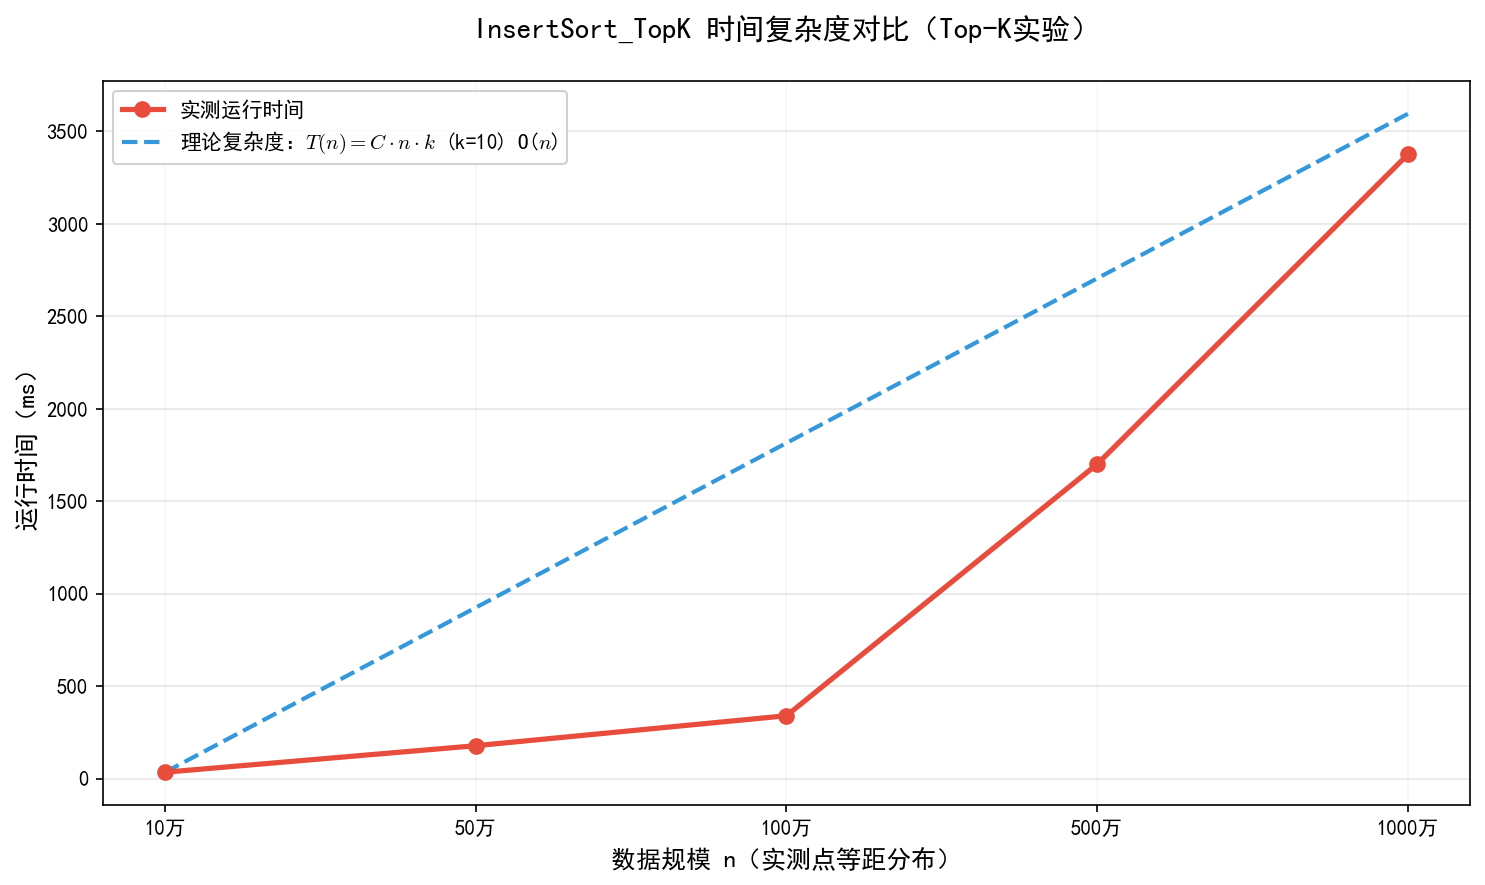
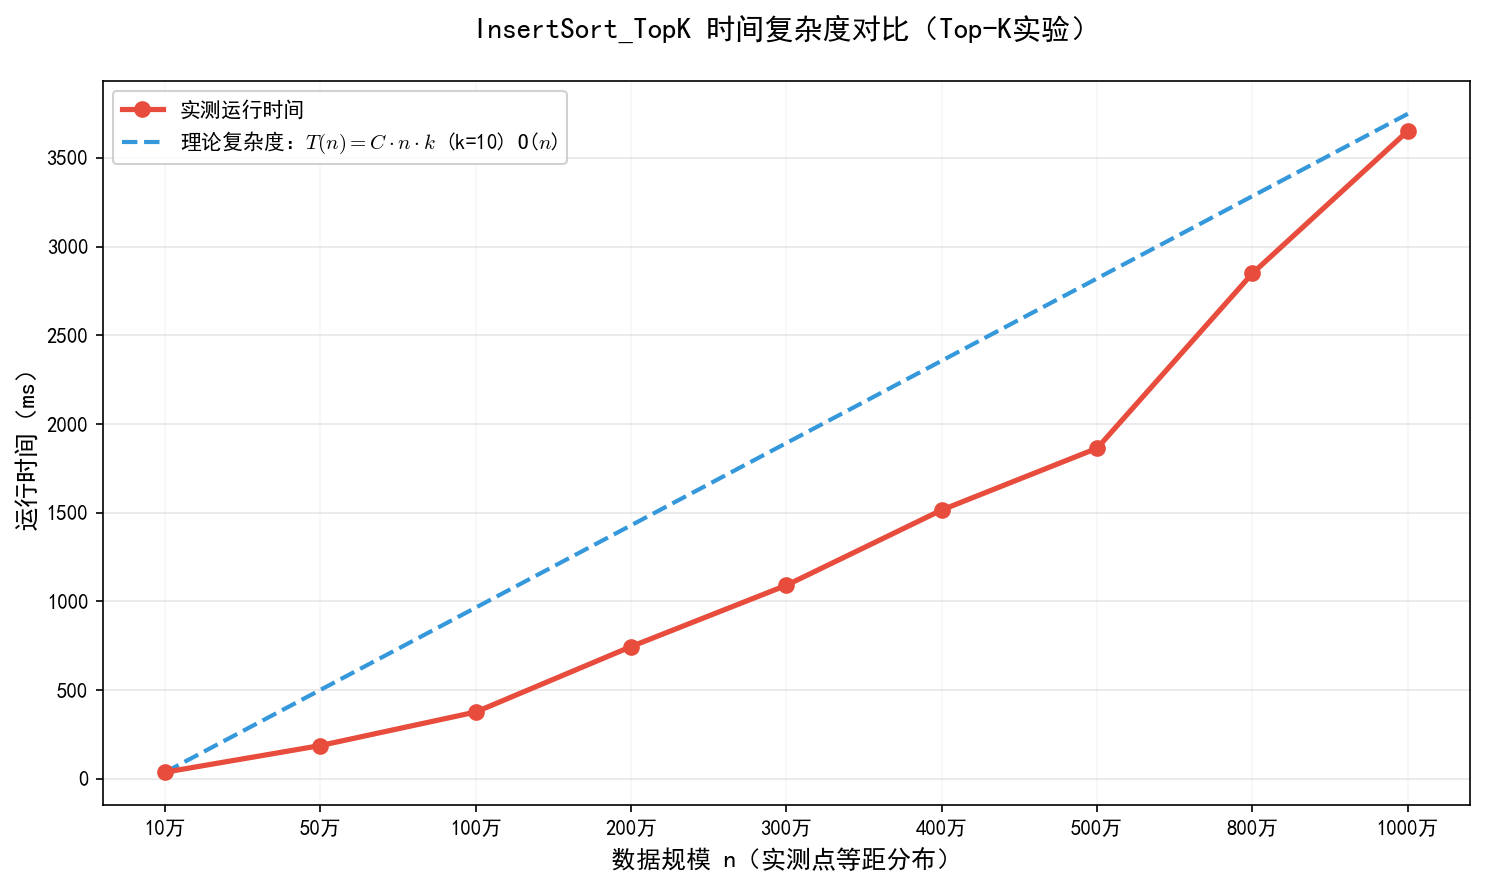
2026-0325 18:30

diff --git a/source/scripts/plot_original_fullsort.py b/source/scripts/plot_original_fullsort.py
@@ -3,126 +3,118 @@ import numpy as np
 import pandas as pd
 import os
 
-# 设置中文字体 + 支持LaTeX公式显示
-plt.rcParams['font.sans-serif'] = ['SimHei']  # Windows
-# plt.rcParams['font.sans-serif'] = ['Arial Unicode MS']  # Mac
-# plt.rcParams['font.sans-serif'] = ['WenQuanYi Micro Hei']  # Linux
+# ================== 全局配置 ==================
+plt.rcParams['font.sans-serif'] = ['SimHei', 'Arial Unicode MS', 'DejaVu Sans']
 plt.rcParams['axes.unicode_minus'] = False
-plt.rcParams['text.usetex'] = False  # 关闭LaTeX（避免环境依赖）
-plt.rcParams['mathtext.fontset'] = 'cm'  # 数学公式字体
 plt.rcParams['figure.dpi'] = 150
 plt.rcParams['savefig.dpi'] = 150
 
-# ===== 优化：目录创建（兼容多系统）=====
+# ================== 路径配置 ==================
 save_dir = os.path.join("source", "origin")
 os.makedirs(save_dir, exist_ok=True)
-print(f"✅ 图片保存目录：{os.path.abspath(save_dir)}")
 
-# 1. 读取并清洗原始CSV文件
 csv_path = os.path.join("source", "data", "original_fullsort_benchmark.csv")
+
+print(f"📂 读取数据：{os.path.abspath(csv_path)}")
+
+# ================== 读取数据 ==================
 try:
     df = pd.read_csv(csv_path)
-    required_cols = ['algorithm', 'n', 'k', 'time_ms']
-    if not all(col in df.columns for col in required_cols):
-        raise ValueError("CSV列名不匹配，尝试按无表头读取")
 except:
-    df_raw = pd.read_csv(csv_path, header=None, names=['algorithm', 'n', 'k', 'time_ms'])
-    df = df_raw.copy()
+    df = pd.read_csv(csv_path, header=None,
+                     names=['algorithm', 'n', 'k', 'time_ms'])
 
-# 数据清洗（彻底处理空值）
+# ================== 数据清洗 ==================
 df['n'] = pd.to_numeric(df['n'], errors='coerce')
 df['k'] = pd.to_numeric(df['k'], errors='coerce')
 df['time_ms'] = pd.to_numeric(df['time_ms'], errors='coerce')
-df = df.dropna(subset=['algorithm', 'n', 'k', 'time_ms'])
+
+df = df.dropna()
 df['n'] = df['n'].astype(int)
-df['k'] = df['k'].astype(int)
 df['time_ms'] = df['time_ms'].astype(float)
-print(f"✅ 数据加载完成，过滤空值后有效行数：{len(df)}")
 
-# 实测点等距映射
+print(f"✅ 数据行数：{len(df)}")
+
+# ================== 等距横坐标 ==================
 n_actual_all = sorted(df['n'].unique())
-n_to_idx = {n: idx for idx, n in enumerate(n_actual_all)}
+n_to_idx = {n: i for i, n in enumerate(n_actual_all)}
 df['n_idx'] = df['n'].map(n_to_idx)
-print(f"✅ 实测n值：{n_actual_all} → 等距索引：{n_to_idx}")
 
-# 2. 核心修正：无scipy的精准理论模型（加权平均法拟合C）
+# ================== 正确复杂度拟合 ==================
 def get_complexity_model(algo_name, algo_data):
-    """
-    无scipy依赖，用加权平均法计算最优C：
-    - 快排：T(n) = C * n * log₂n → C = 平均(t/(n*log₂n))
-    - 其他排序：T(n) = C * n² → C = 平均(t/n²)
-    """
-    n_fit = algo_data['n'].values
-    t_fit = algo_data['time_ms'].values
+    n = algo_data['n'].values
+    t = algo_data['time_ms'].values
 
-    if algo_name == 'Origin_QuickSort_Full':
-        # 快排：以2为底的对数，加权平均计算C（避免单个点误差）
-        log2_n = np.log2(n_fit)
-        # 计算每个点的C值，取平均（加权）
-        c_values = t_fit / (n_fit * log2_n)
-        C = np.mean(c_values)  # 平均C值，综合所有点的信息
-        # 精准公式标注（log₂n）
-        formula = r'$T(n) = C \cdot n \log_2 n$ (O($n\log n$))'
-        def calc_func(n_values):
-            return C * n_values * np.log2(n_values)
-    
-    else:  # 插入/冒泡/选择排序：O(n²)
-        # 计算每个点的C值，取平均
-        c_values = t_fit / (n_fit **2)
-        C = np.mean(c_values)
-        formula = r'$T(n) = C \cdot n^2$ (O($n^2$))'
-        def calc_func(n_values):
-            return C * (n_values** 2)
-    
-    return formula, calc_func
+    if "QuickSort" in algo_name:
+        # T(n) = a*n log n + b*n
+        X = np.vstack([n * np.log2(n), n]).T
+        coeffs, _, _, _ = np.linalg.lstsq(X, t, rcond=None)
+        a, b = coeffs
 
-# 3. 绘图逻辑（等距横坐标+精准理论曲线）
+        formula = r'$T(n)=a\cdot n\log_2 n + b\cdot n$'
+
+        def func(x):
+            return a * x * np.log2(x) + b * x
+
+    else:
+        # T(n) = a*n^2 + b*n
+        X = np.vstack([n**2, n]).T
+        coeffs, _, _, _ = np.linalg.lstsq(X, t, rcond=None)
+        a, b = coeffs
+
+        formula = r'$T(n)=a\cdot n^2 + b\cdot n$'
+
+        def func(x):
+            return a * x**2 + b * x
+
+    return formula, func
+
+# ================== 绘图 ==================
 algorithms = df['algorithm'].unique()
+
 for algo in algorithms:
-    algo_data = df[df['algorithm'] == algo].sort_values(by='n')
-    n_idx_actual = algo_data['n_idx'].values
-    time_actual = algo_data['time_ms'].values
-    n_actual = algo_data['n'].values
+    data = df[df['algorithm'] == algo].sort_values(by='n')
 
-    # 获取精准的理论公式和拟合后的计算函数
-    complexity_formula, calc_theory = get_complexity_model(algo, algo_data)
-    
-    # 生成理论曲线的连续坐标（适配等距横坐标）
+    n_idx = data['n_idx'].values
+    n_actual = data['n'].values
+    t_actual = data['time_ms'].values
+
+    # 获取理论模型
+    formula, theory_func = get_complexity_model(algo, data)
+
+    # 连续曲线
     n_min, n_max = min(n_actual_all), max(n_actual_all)
-    n_range = np.linspace(n_min, n_max, 200)
-    time_theory = calc_theory(n_range)
-    n_idx_range = np.linspace(n_to_idx[n_min], n_to_idx[n_max], 200)
+    n_smooth = np.linspace(n_min, n_max, 200)
+    t_smooth = theory_func(n_smooth)
 
-    # 创建画布
+    n_idx_smooth = np.linspace(n_to_idx[n_min], n_to_idx[n_max], 200)
+
+    # ================== 开始画图 ==================
+    # ====== 用真实 n 作横轴 ======
     plt.figure(figsize=(10, 6))
 
-    # 绘制实测折线（红色+圆点）
-    plt.plot(n_idx_actual, time_actual, color='#e74c3c', marker='o', markersize=6,
-             linewidth=2, label='实际运行时间（实测）', zorder=5)
+    plt.plot(n_actual, t_actual,
+         marker='o',
+         linewidth=2,
+         label='实际运行时间')
 
-    # 绘制修正后的理论曲线（蓝色虚线）
-    plt.plot(n_idx_range, time_theory, color='#3498db', linewidth=2,
-             linestyle='--', label=f'理论复杂度曲线: {complexity_formula}', zorder=3)
+    plt.plot(n_smooth, t_smooth,
+         linestyle='--',
+         linewidth=2,
+         label=f'理论模型 {formula}')
 
-    # 等距横坐标设置
-    plt.xticks(
-        ticks=list(n_to_idx.values()),
-        labels=[f"{n//10000}万" for n in n_actual_all],
-        fontsize=10
-    )
-    plt.xlabel('数据规模 n（实测点等距分布）', fontsize=12)
-    plt.ylabel('运行时间 (ms)', fontsize=12)
-    plt.title(f'{algo.replace("Origin_", "").replace("_Full", "")} 时间复杂度对比', fontsize=14, pad=15)
-    plt.legend(fontsize=11, loc='upper left')
-    plt.grid(True, alpha=0.3, axis='y')
-    plt.grid(True, alpha=0.1, axis='x')
+    plt.xlabel("数据规模 n")
+    plt.ylabel("时间 (ms)")
+    plt.title(f"{title} 时间复杂度拟合")
+    plt.legend()
+    plt.grid(alpha=0.3)
 
-    # 保存图片
-    save_name = os.path.join(save_dir, f'{algo.replace("Origin_", "").replace("_Full", "")}_comparison.png')
+    # ================== 保存 ==================
+    save_path = os.path.join(save_dir, f"{title}.png")
     plt.tight_layout()
-    plt.savefig(save_name, bbox_inches='tight')
+    plt.savefig(save_path)
     plt.close()
 
-    print(f'✅ {algo.replace("Origin_", "").replace("_Full", "")} 图表已保存：{save_name}')
+    print(f"✅ 已生成：{save_path}")
 
-print('\n🎉 所有算法图表生成完成！快排理论曲线已精准修正（无scipy依赖）！')
+print("\n🎉 所有图生成完成（理论模型已修正）")

diff --git a/source/scripts/original_fullsort_benchmark.cpp b/source/scripts/original_fullsort_benchmark.cpp
@@ -90,15 +90,49 @@ vector<int> origin_selectionsort(const vector<vector<double>>& users, const vect
     return res;
 }
 
-// ==== 原始快排（标准sort） ====
+// ==== 手写快速排序（降序） ====
+int partition(vector<pair<double, int>>& arr, int left, int right) {
+    double pivot = arr[left].first;  // 选第一个为基准
+    int i = left, j = right;
+
+    while (i < j) {
+        // 从右往左找比pivot大的
+        while (i < j && arr[j].first <= pivot) j--;
+        arr[i] = arr[j];
+
+        // 从左往右找比pivot小的
+        while (i < j && arr[i].first >= pivot) i++;
+        arr[j] = arr[i];
+    }
+
+    arr[i].first = pivot;
+    return i;
+}
+
+void quicksort(vector<pair<double, int>>& arr, int left, int right) {
+    if (left >= right) return;
+
+    int pivot = partition(arr, left, right);
+
+    quicksort(arr, left, pivot - 1);
+    quicksort(arr, pivot + 1, right);
+}
+
+// ==== 原始快排 ====
 vector<int> origin_quicksort(const vector<vector<double>>& users, const vector<double>& target, int k) {
     int n = users.size();
     vector<pair<double, int>> sims(n);
+
     for (int i = 0; i < n; ++i)
         sims[i] = {cosineSimilarity(users[i], target), i};
-    sort(sims.begin(), sims.end(), std::greater<pair<double, int>>());
+
+    // 手写快排（降序）
+    quicksort(sims, 0, n - 1);
+
     vector<int> res;
-    for (int i = 0; i < k; ++i) res.push_back(sims[i].second);
+    for (int i = 0; i < k; ++i)
+        res.push_back(sims[i].second);
+
     return res;
 }
 
@@ -164,7 +198,7 @@ int main() {
         cout << "Origin_SelectionSort_Full: " << sel_ms << " ms" << endl;
         write_csv(csv_file, "Origin_SelectionSort_Full", n, k, sel_ms);
 
-        // 快排（STL sort）
+        // 快排
         t1 = high_resolution_clock::now();
         auto res4 = origin_quicksort(users, target, k);
         t2 = high_resolution_clock::now();
